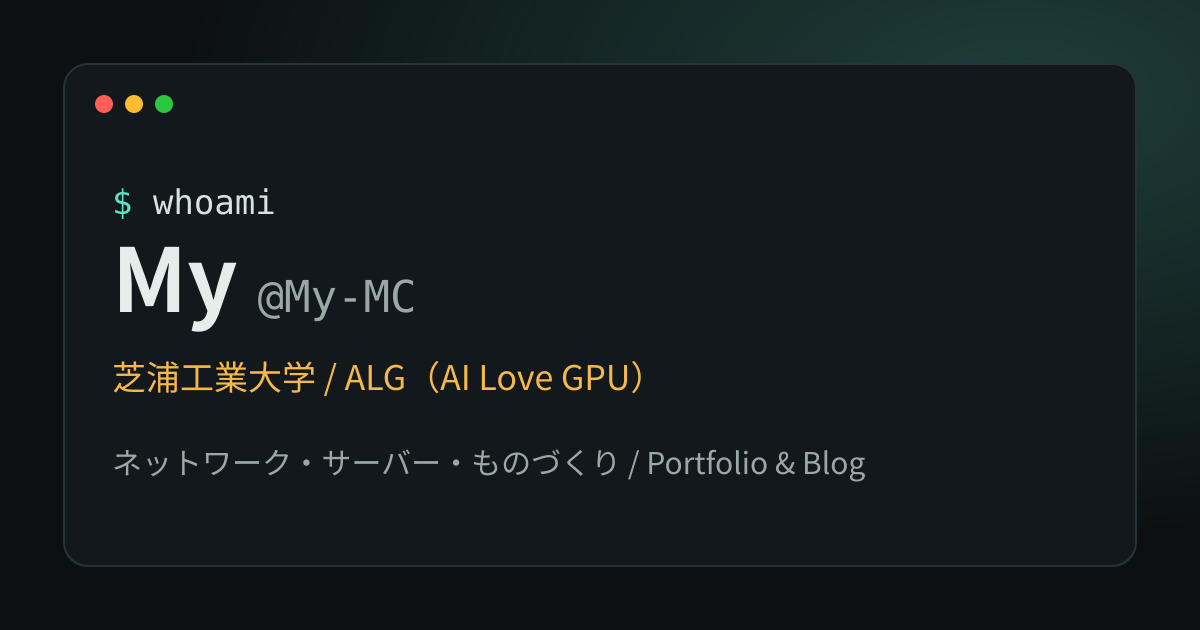
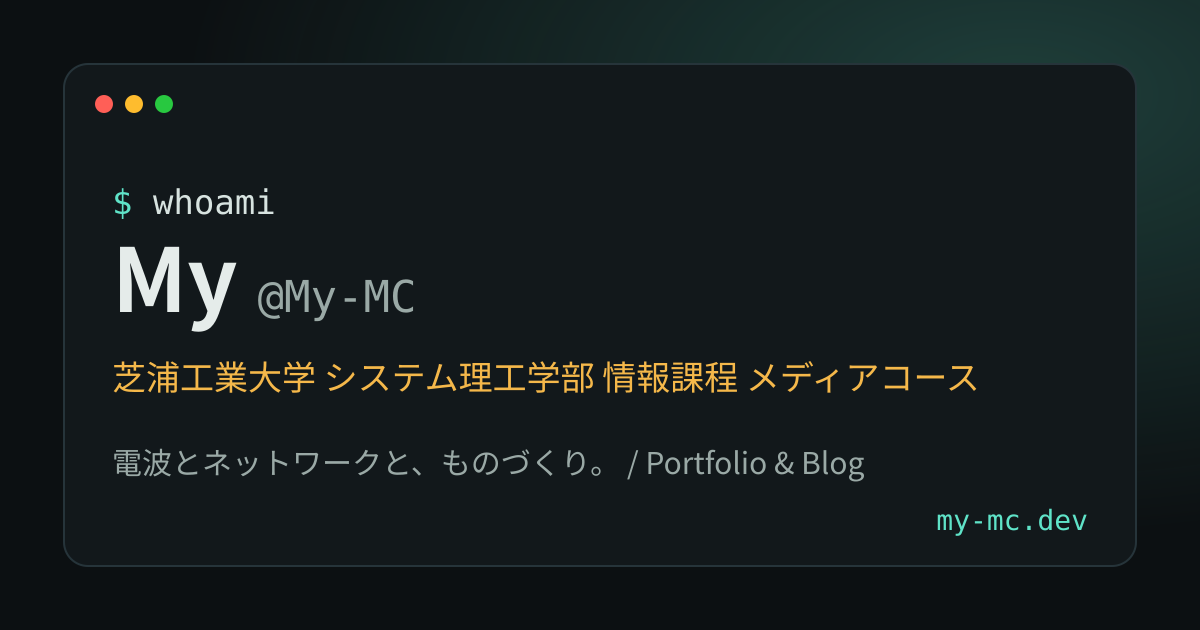
fix: OGP画像を現在のプロフィールで作り直し、古いOGP画像をビルドで検出する

Changed region(s): [[0.2775, 0.573, 0.8325, 0.6333], [0.0925, 0.6937, 0.74, 0.754], [0.7708, 0.8143, 0.925, 0.8444]]

diff --git a/scripts/build-assets.ts b/scripts/build-assets.ts
@@ -1,6 +1,6 @@
 import { writeFile } from 'node:fs/promises';
 import sharp from 'sharp';
-import { profile } from '../src/data/site';
+import { ogHash, ogHashFile, ogSvg } from './og-image';
 
 /** favicon・Apple Touch Icon・OGP画像をSVGから生成する（生成物はコミットする）。 */
 const icon = `<svg xmlns="http://www.w3.org/2000/svg" viewBox="0 0 64 64">
@@ -20,27 +20,6 @@ await sharp(Buffer.from(icon))
   .png()
   .toFile('public/apple-touch-icon.png');
 
-const escapeXml = (value: string) =>
-  value.replace(/[&<>"]/g, (c) => `&#${c.charCodeAt(0)};`);
-const fontFamily = "'Noto Sans CJK JP','Noto Sans JP',sans-serif";
-const mono = "'Cascadia Mono','DejaVu Sans Mono',monospace";
-const og = `<svg xmlns="http://www.w3.org/2000/svg" width="1200" height="630" viewBox="0 0 1200 630">
-  <defs>
-    <radialGradient id="g" cx="0.85" cy="0.15" r="0.7">
-      <stop offset="0" stop-color="#5fe3c8" stop-opacity="0.22"/>
-      <stop offset="1" stop-color="#5fe3c8" stop-opacity="0"/>
-    </radialGradient>
-  </defs>
-  <rect width="1200" height="630" fill="#0c1012"/>
-  <rect width="1200" height="630" fill="url(#g)"/>
-  <rect x="64" y="64" width="1072" height="502" rx="24" fill="#12181b" stroke="#26343a" stroke-width="2"/>
-  <circle cx="104" cy="104" r="9" fill="#ff5f57"/>
-  <circle cx="134" cy="104" r="9" fill="#febc2e"/>
-  <circle cx="164" cy="104" r="9" fill="#28c840"/>
-  <text x="112" y="214" font-family="${mono}" font-size="34" fill="#5fe3c8">$ <tspan fill="#d7e3e0">whoami</tspan></text>
-  <text x="112" y="312" font-family="${fontFamily}" font-size="88" font-weight="700" fill="#e5ecea">${escapeXml(profile.displayName)} <tspan font-family="${mono}" font-size="44" font-weight="400" fill="#9aa9a6">@${escapeXml(profile.handle)}</tspan></text>
-  <text x="112" y="390" font-family="${fontFamily}" font-size="34" fill="#f5b84a">${escapeXml(profile.tagline)}</text>
-  <text x="112" y="474" font-family="${fontFamily}" font-size="30" fill="#9aa9a6">ネットワーク・サーバー・ものづくり / Portfolio &amp; Blog</text>
-</svg>`;
-await sharp(Buffer.from(og)).png().toFile('public/og.png');
+await sharp(Buffer.from(ogSvg())).png().toFile('public/og.png');
+await writeFile(ogHashFile, `${ogHash()}\n`);
 console.log('favicon・OGP画像を生成しました');

diff --git a/scripts/og-image.ts b/scripts/og-image.ts
@@ -1,0 +1,37 @@
+import { createHash } from 'node:crypto';
+import { productionUrl, profile } from '../src/data/site';
+
+/**
+ * OGP画像のSVG。public/og.png は日本語フォントが必要なためローカルで生成してコミットし、
+ * 元になった SVG のハッシュを scripts/og-image.sha256 に記録する（verify-output が照合する）。
+ */
+const escapeXml = (value: string) =>
+  value.replace(/[&<>"]/g, (c) => `&#${c.charCodeAt(0)};`);
+const fontFamily = "'Noto Sans CJK JP','Noto Sans JP',sans-serif";
+const mono = "'Cascadia Mono','DejaVu Sans Mono',monospace";
+export function ogSvg() {
+  return `<svg xmlns="http://www.w3.org/2000/svg" width="1200" height="630" viewBox="0 0 1200 630">
+  <defs>
+    <radialGradient id="g" cx="0.85" cy="0.15" r="0.7">
+      <stop offset="0" stop-color="#5fe3c8" stop-opacity="0.22"/>
+      <stop offset="1" stop-color="#5fe3c8" stop-opacity="0"/>
+    </radialGradient>
+  </defs>
+  <rect width="1200" height="630" fill="#0c1012"/>
+  <rect width="1200" height="630" fill="url(#g)"/>
+  <rect x="64" y="64" width="1072" height="502" rx="24" fill="#12181b" stroke="#26343a" stroke-width="2"/>
+  <circle cx="104" cy="104" r="9" fill="#ff5f57"/>
+  <circle cx="134" cy="104" r="9" fill="#febc2e"/>
+  <circle cx="164" cy="104" r="9" fill="#28c840"/>
+  <text x="112" y="214" font-family="${mono}" font-size="34" fill="#5fe3c8">$ <tspan fill="#d7e3e0">whoami</tspan></text>
+  <text x="112" y="312" font-family="${fontFamily}" font-size="88" font-weight="700" fill="#e5ecea">${escapeXml(profile.displayName)} <tspan font-family="${mono}" font-size="44" font-weight="400" fill="#9aa9a6">@${escapeXml(profile.handle)}</tspan></text>
+  <text x="112" y="390" font-family="${fontFamily}" font-size="34" fill="#f5b84a">${escapeXml(profile.tagline)}</text>
+  <text x="112" y="474" font-family="${fontFamily}" font-size="30" fill="#9aa9a6">電波とネットワークと、ものづくり。 / Portfolio &amp; Blog</text>
+  <text x="1088" y="530" text-anchor="end" font-family="${mono}" font-size="28" fill="#5fe3c8">${escapeXml(new URL(productionUrl).host)}</text>
+</svg>`;
+}
+
+export const ogHashFile = 'scripts/og-image.sha256';
+export function ogHash() {
+  return createHash('sha256').update(ogSvg()).digest('hex');
+}

diff --git a/scripts/verify-output.ts b/scripts/verify-output.ts
@@ -3,6 +3,7 @@ import { join, relative, resolve } from 'node:path';
 import { load } from 'cheerio';
 import { site } from '../src/data/site';
 import { isPreview } from '../src/lib/seo';
+import { ogHash, ogHashFile } from './og-image';
 
 /** ビルド成果物の最低限の品質と公開設定を検査する。 */
 const root = resolve('dist');
@@ -95,6 +96,14 @@ if (release || branch === 'main') {
     '本番ビルドにはSITE_URL（https://...）の設定が必要です',
   );
 }
+// OGP画像がプロフィール変更後に作り直されているか
+const recordedOgHash = (
+  await readFile(ogHashFile, 'utf8').catch(() => '')
+).trim();
+assert(
+  recordedOgHash === ogHash(),
+  'OGP画像（public/og.png）が古いです。bun run assets:build で作り直してコミットしてください',
+);
 if (failures.length) {
   console.error(`成果物の検証に失敗しました（${failures.length}件）`);
   for (const failure of failures) console.error(`- ${failure}`);

diff --git a/src/data/site.ts b/src/data/site.ts
@@ -2,13 +2,16 @@
  * サイト全体の設定。公開URLはビルド環境変数 SITE_URL で上書きできる
  * （Workers Buildsのビルド変数に設定する。末尾スラッシュなし）。
  */
+/** 本番の公開URL（OGP画像・既定のサイトURL） */
+export const productionUrl = 'https://my-mc.dev';
+
 const envUrl =
   typeof process !== 'undefined' ? process.env.SITE_URL?.trim() : undefined;
 
 export const site = {
   /** サイト名（ヘッダー・タイトル末尾） */
   name: 'My-MC',
-  url: (envUrl || 'https://my-mc.dev').replace(/\/+$/, ''),
+  url: (envUrl || productionUrl).replace(/\/+$/, ''),
   description:
     'My（My-MC）のポートフォリオ兼ブログ。ネットワーク、Linuxサーバー運用、自宅ラボ、ソフトウェア開発について書いています。',
   /** true の間は本番でも検索エンジンに載せない */
